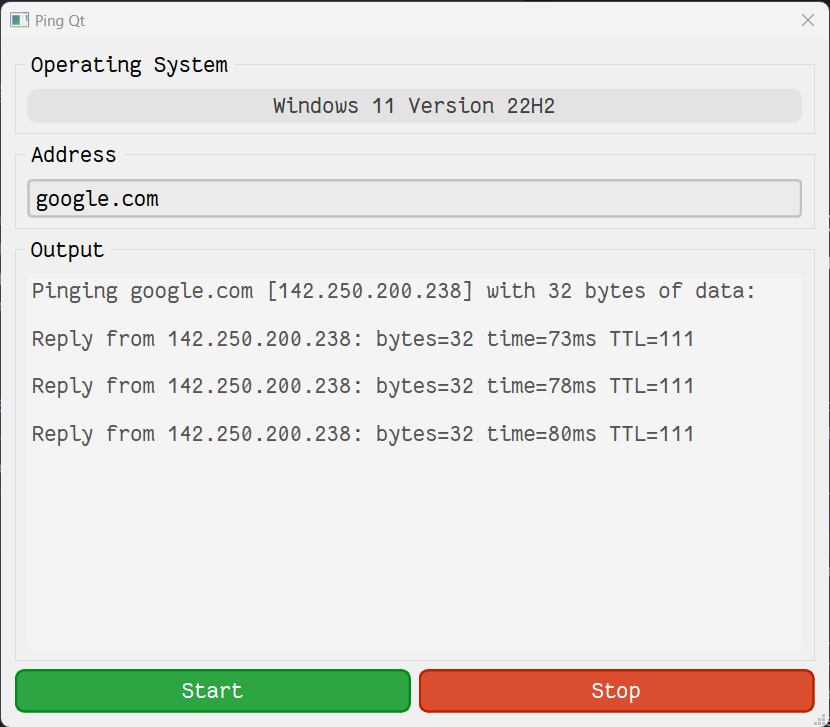
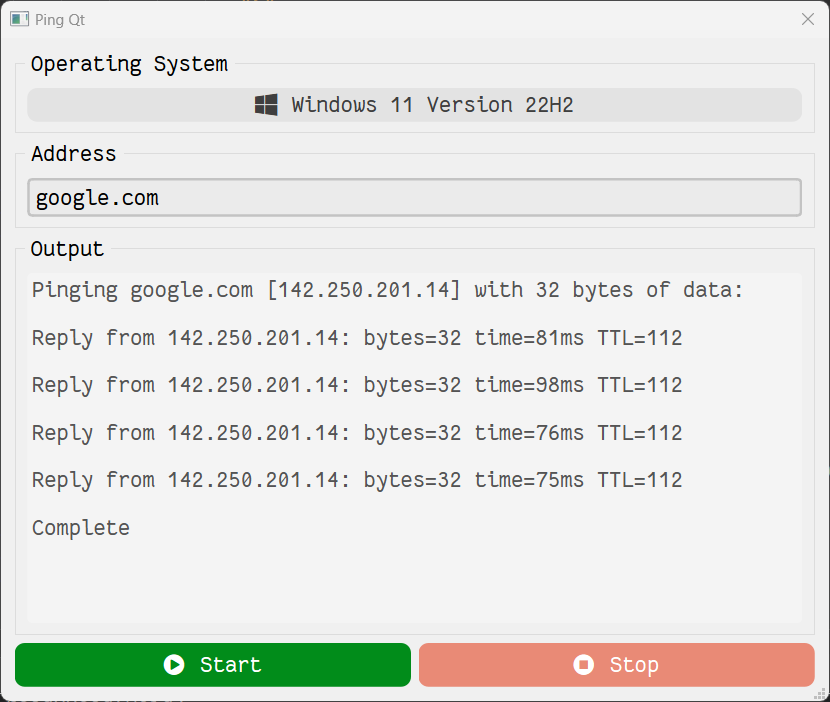
Style buttons

diff --git a/source/pingdialog.cpp b/source/pingdialog.cpp
@@ -12,7 +12,17 @@ PingDialog::PingDialog(QWidget *parent)
     connect(this, &QDialog::rejected, pingProcess, &Ping::stop);
 
     osName = new QLabel;
-    osName->setText(QSysInfo::prettyProductName());
+    QString systemIcon;
+    if(QSysInfo::productType() == "windows")
+    {
+        systemIcon = "";
+    } else if(QSysInfo::productType() == "macos") {
+        systemIcon = "";
+    } else {
+        systemIcon = "";
+    }
+
+    osName->setText(systemIcon + "  " + QSysInfo::prettyProductName());
     osName->setStyleSheet("QLabel {"
                           "background-color: #e3e3e3;"
                           "color: #3f3f3f;"
@@ -35,37 +45,36 @@ PingDialog::PingDialog(QWidget *parent)
                                "background-color: #F9F9F9;"
                                "}");
 
-    startButton = new QPushButton(tr("&Start"));
+    startButton = new QPushButton(tr("&  Start"));
     startButton->setDefault(true);
     startButton->setStyleSheet("QPushButton {"
-                               "background-color: #2CA542;"
+                               "background-color: #018C1A;"
                                "color: #ffffff;"
                                "border-radius: 8%;"
-                               "border: 2px solid #018C1A;"
-                               "padding: 6 32;"
+                               "padding: 8 32;"
                                "}"
                                "QPushButton:hover:!pressed {"
-                               "background-color: #018C1A;"
+                               "background-color: #2CA542;"
                                "}");
 
+    connect(startButton, &QPushButton::clicked, this, &PingDialog::onStartClicked);
+    connect(pingProcess, &Ping::started, this, &PingDialog::onStarted);
 
-    connect(startButton, &QPushButton::clicked, this, &PingDialog::startClicked);
-
-    stopButton = new QPushButton(tr("&Stop"));
+    stopButton = new QPushButton(tr("&  Stop"));
     stopButton->setDefault(true);
     stopButton->setStyleSheet("QPushButton {"
-                              "background-color: #DA4D2E;"
+                              "background-color: #E98A76;"
                               "color: #ffffff;"
                               "border-radius: 8%;"
-                              "border: 2px solid #BC2100;"
-                              "padding: 6 32;"
+                              "padding: 8 32;"
                               "}"
                               "QPushButton:hover:!pressed {"
                               "background-color: #BC2100;"
                               "}");
-
+    stopButton->setEnabled(false);
 
     connect(stopButton, &QPushButton::clicked, pingProcess, &Ping::stop);
+    connect(pingProcess, &Ping::finished, this, &PingDialog::onFinished);
 
     pingResult = new QPlainTextEdit;
     pingResult->setPlainText("No output yet.");
@@ -132,14 +141,63 @@ void PingDialog::output(const QString &data)
     pingResult->appendPlainText(data);
 }
 
-void PingDialog::startClicked()
+void PingDialog::onStartClicked()
 {
-    if (pingProcess->isRunning() == true)
-        return;
-
     pingResult->clear();
 
     pingProcess->address = addressLine->text();
     pingProcess->args = "-t";
     pingProcess->start();
+}
+
+void PingDialog::onStarted()
+{
+    startButton->setEnabled(false);
+    stopButton->setEnabled(true);
+
+    startButton->setStyleSheet("QPushButton {"
+                               "background-color: #71D383;"
+                               "color: #ffffff;"
+                               "border-radius: 8%;"
+                               "padding: 8 32;"
+                               "}"
+                               "QPushButton:hover:!pressed {"
+                               "background-color: #018C1A;"
+                               "}");
+
+    stopButton->setStyleSheet("QPushButton {"
+                              "background-color: #BC2100;"
+                              "color: #ffffff;"
+                              "border-radius: 8%;"
+                              "padding: 8 32;"
+                              "}"
+                              "QPushButton:hover:!pressed {"
+                              "background-color: #DA4D2E;"
+                              "}");
+}
+
+void PingDialog::onFinished()
+{
+    startButton->setEnabled(true);
+    stopButton->setEnabled(false);
+
+    startButton->setStyleSheet("QPushButton {"
+                               "background-color: #018C1A;"
+                               "color: #ffffff;"
+                               "border-radius: 8%;"
+                               "padding: 8 32;"
+                               "}"
+                               "QPushButton:hover:!pressed {"
+                               "background-color: #2CA542;"
+                               "}");
+
+    stopButton->setStyleSheet("QPushButton {"
+                              "background-color: #E98A76;"
+                              "color: #ffffff;"
+                              "border-radius: 8%;"
+                              "padding: 8 32;"
+                              "}"
+                              "QPushButton:hover:!pressed {"
+                              "background-color: #BC2100;"
+                              "}");
 }

diff --git a/source/ping.cpp b/source/ping.cpp
@@ -9,19 +9,17 @@ Ping::Ping(QObject *parent)
 {
     process = new QProcess;
 
-    connect(process, &QProcess::started, this, &Ping::started);
+    connect(process, &QProcess::started, this, &Ping::onStarted);
     connect(process, &QProcess::stateChanged, this, &Ping::stateChanged);
     connect(process, &QProcess::readyRead, this, &Ping::readyRead);
     connect(process, &QProcess::readyReadStandardOutput, this, &Ping::readyReadStandardOutput);
     connect(process, &QProcess::errorOccurred, this, &Ping::errorOccurred);
     connect(process, &QProcess::readyReadStandardError, this, &Ping::readyReadStandardError);
-    connect(process, QOverload<int, QProcess::ExitStatus>::of(&QProcess::finished), this, &Ping::finished);
+    connect(process, QOverload<int, QProcess::ExitStatus>::of(&QProcess::finished), this, &Ping::onFinished);
 }
 
 void Ping::start()
 {
-    if(isRunning() == true) return;
-
     qInfo() << Q_FUNC_INFO;
     listening = true;
     QStringList processArgs = {address, args};
@@ -35,9 +33,10 @@ void Ping::stop()
     process->close();
 }
 
-void Ping::started()
+void Ping::onStarted()
 {
     qInfo() << Q_FUNC_INFO;
+    emit started();
 }
 
 void Ping::stateChanged(QProcess::ProcessState newState)
@@ -85,16 +84,11 @@ void Ping::readyReadStandardOutput()
     emit output(stdOut.trimmed());
 }
 
-void Ping::finished(int exitCode, QProcess::ExitStatus exitStatus)
+void Ping::onFinished(int exitCode, QProcess::ExitStatus exitStatus)
 {
-    if(listening == false) return;
     qInfo() << Q_FUNC_INFO;
     Q_UNUSED(exitCode);
     Q_UNUSED(exitStatus);
     emit output("Complete");
-}
-
-bool Ping::isRunning()
-{
-    return (process->state() == QProcess::Running);
+    emit finished();
 }

diff --git a/include/ping.h b/include/ping.h
@@ -13,7 +13,6 @@ public:
 
     QString address;
     QString args;
-    bool isRunning();
 
 private:
     QProcess *process;
@@ -21,11 +20,13 @@ private:
 
 signals:
     void output(const QString &data);
+    void started();
+    void finished();
 
 private slots:
     void readyRead();
-    void started();
-    void finished(int exitCode, QProcess::ExitStatus exitStatus);
+    void onStarted();
+    void onFinished(int exitCode, QProcess::ExitStatus exitStatus);
     void errorOccurred(QProcess::ProcessError error);
     void stateChanged(QProcess::ProcessState newState);
     void readyReadStandardError();

diff --git a/include/pingdialog.h b/include/pingdialog.h
@@ -29,7 +29,9 @@ private:
 
 private slots:
     void output(const QString &data);
-    void startClicked();
+    void onStartClicked();
+    void onStarted();
+    void onFinished();
 };
 
 #endif // MAINWINDOW_H
